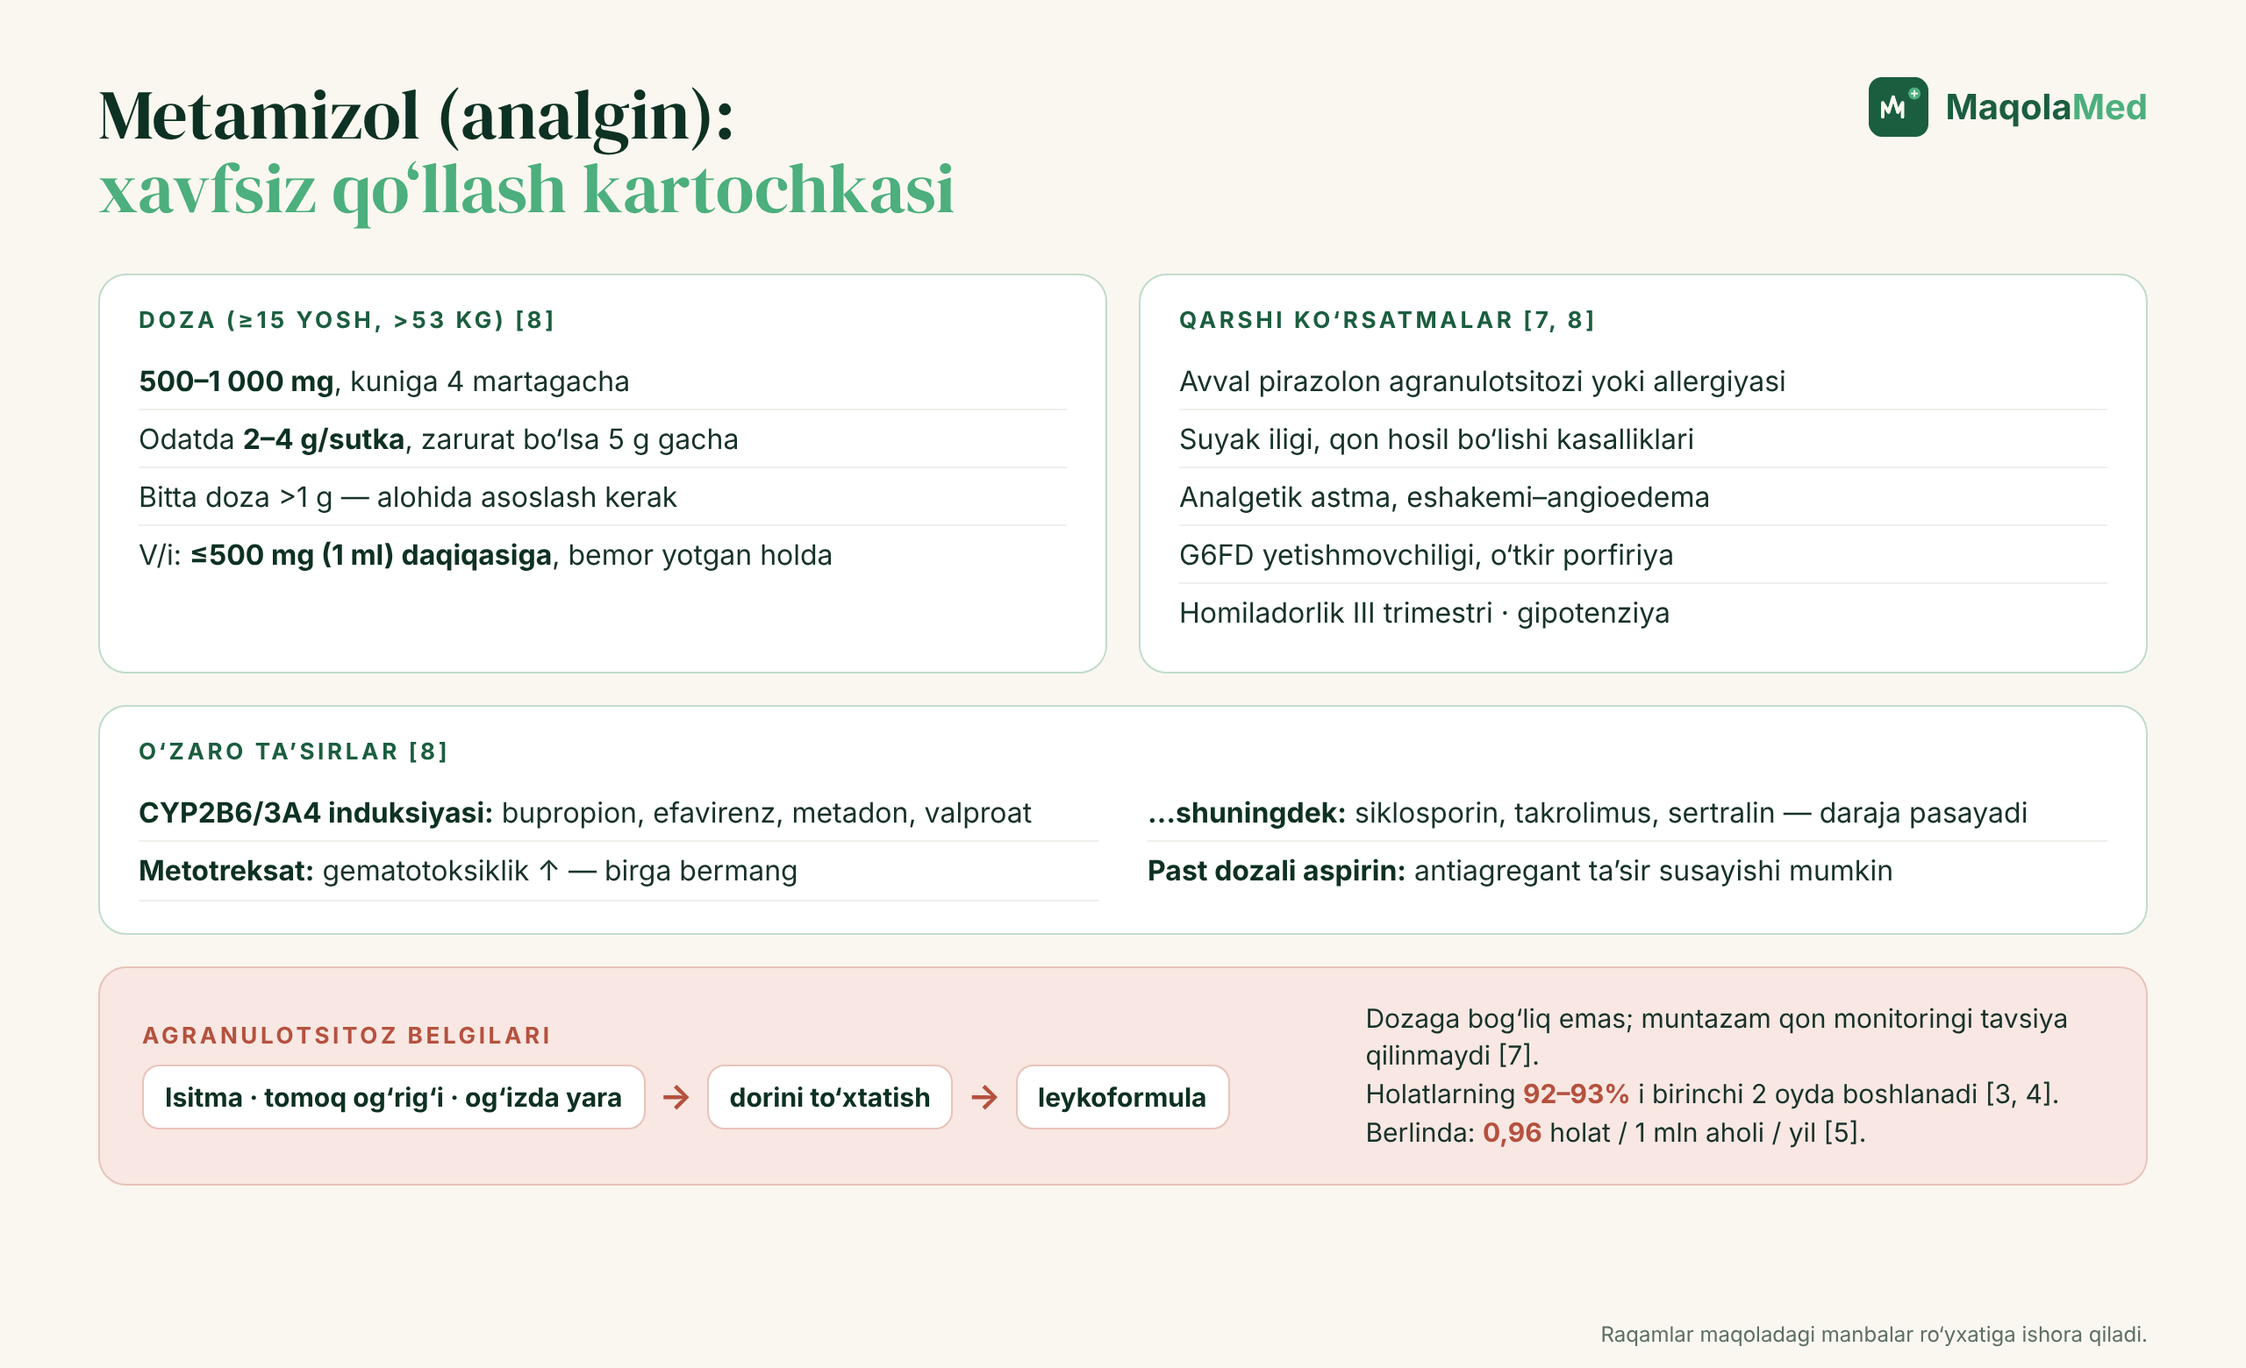
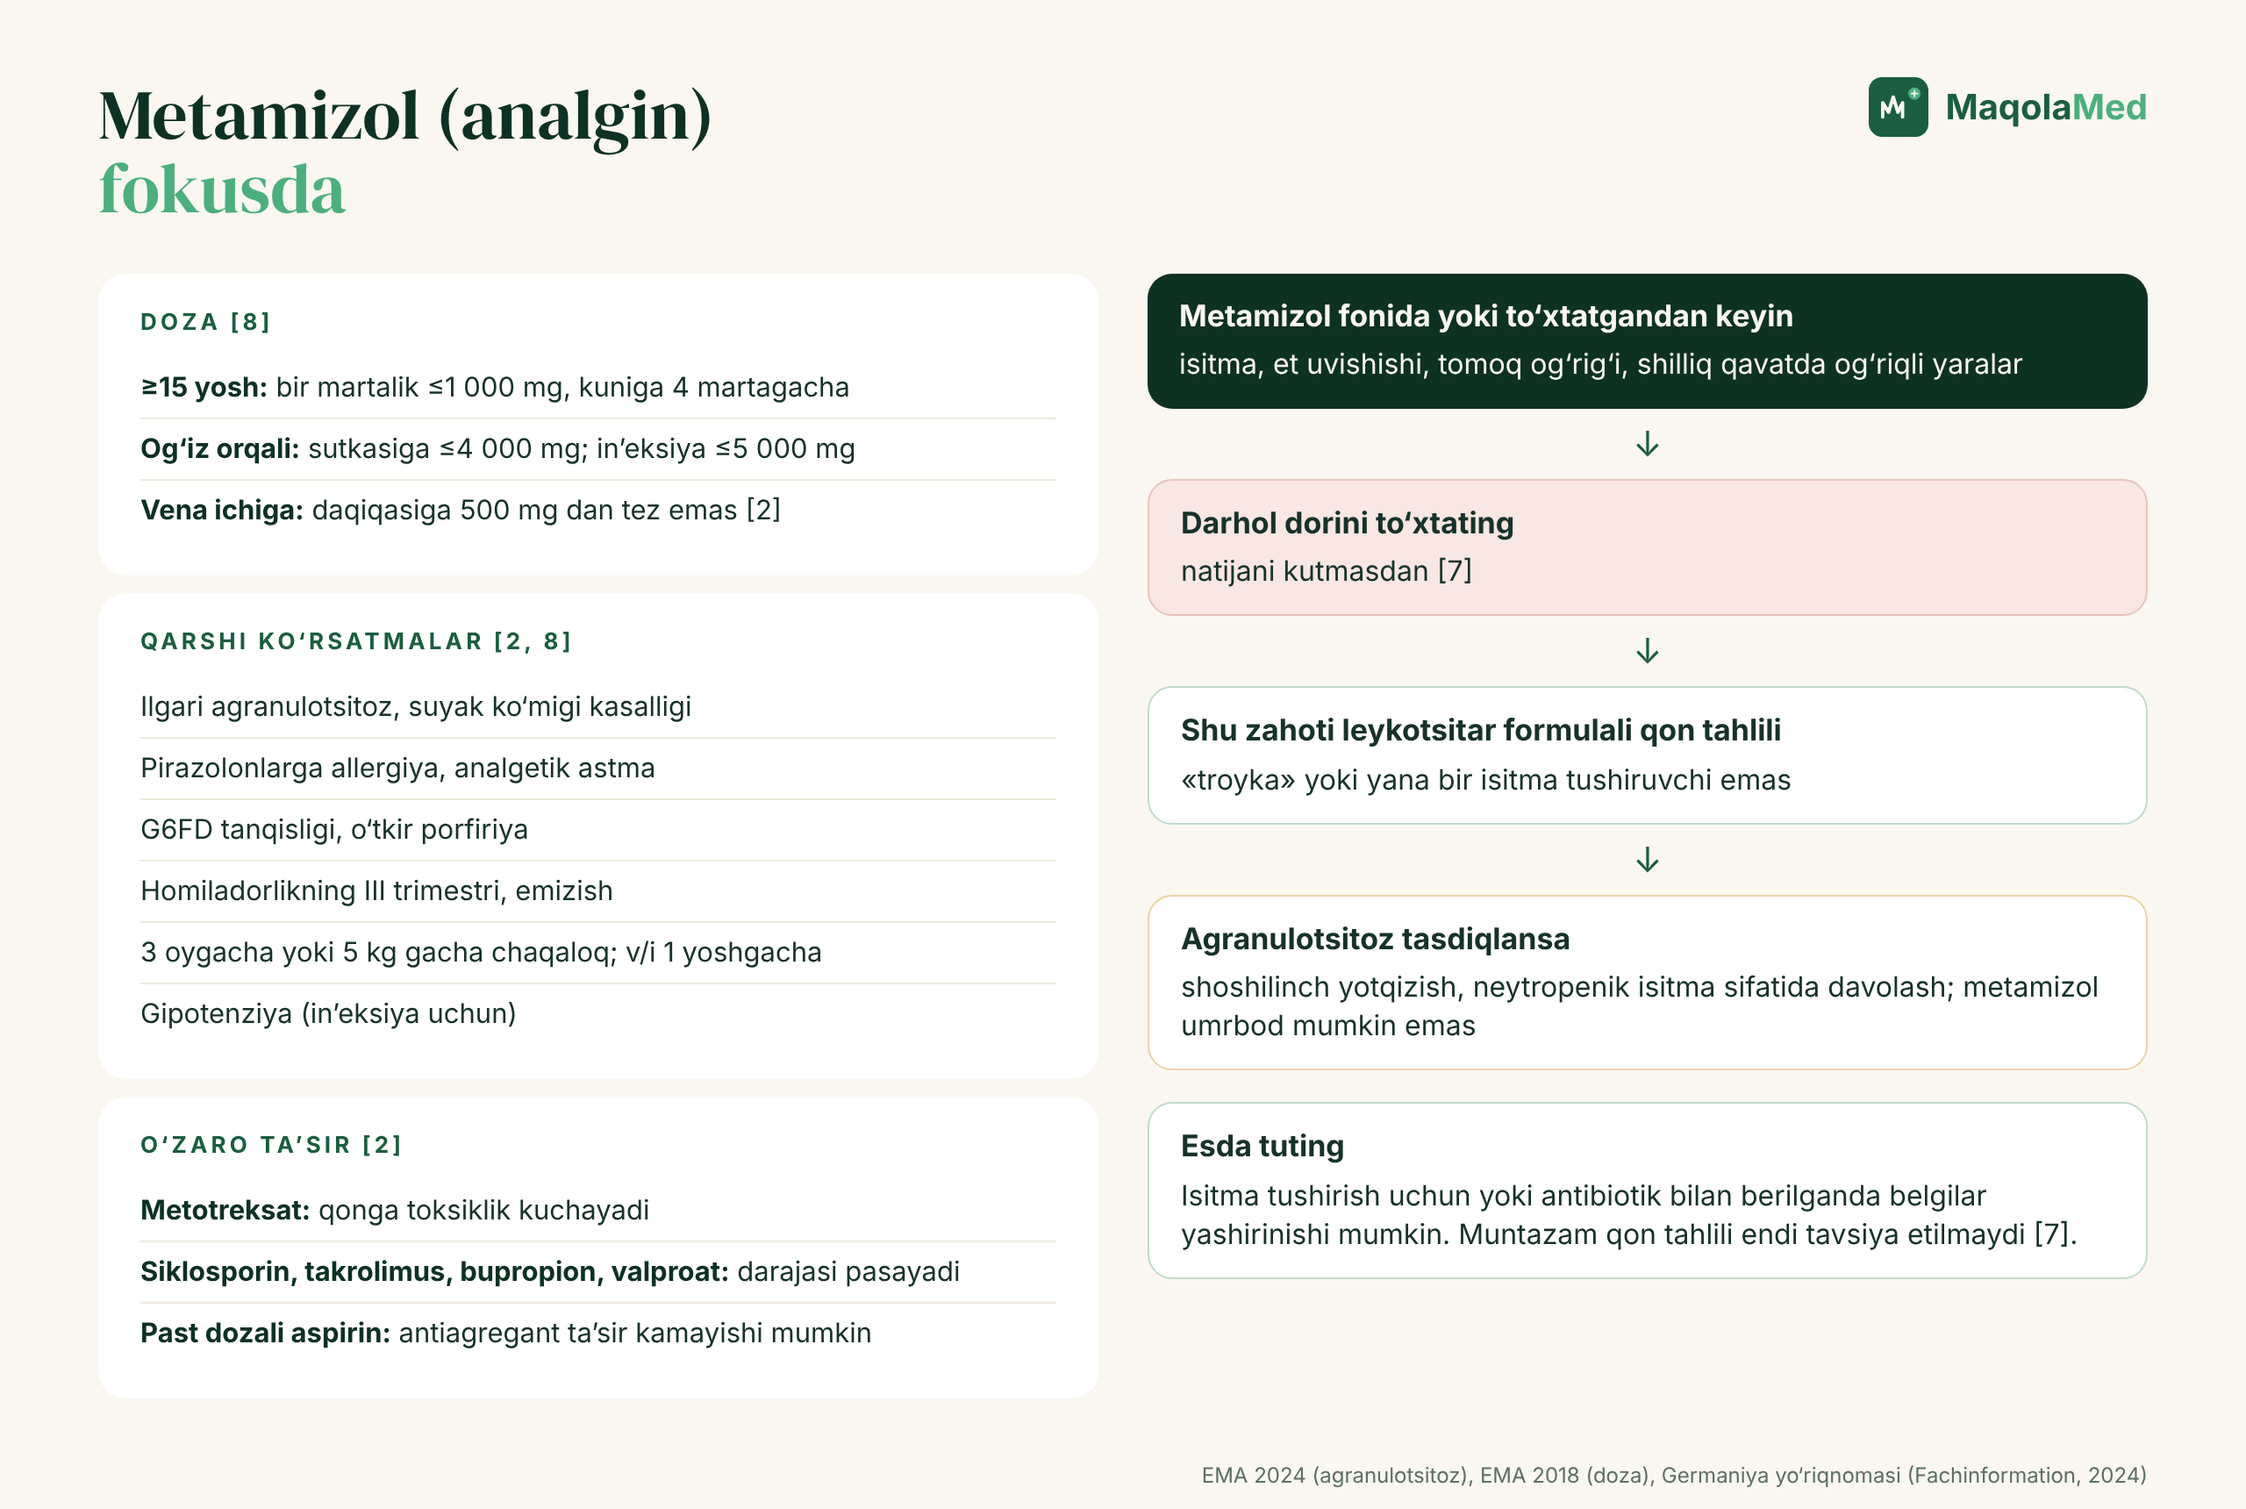
31-dekabr maqolasi qayta yozildi (v2, humanizer): metamizol (analgin) — muqovalar, 1 rasm

diff --git a/_manba/2026-12-31/1-rasm.html b/_manba/2026-12-31/1-rasm.html
@@ -31,38 +31,42 @@ td.warn{background:var(--redbg)}
 .note b{color:var(--deep)}
 .src{position:absolute;right:56px;bottom:12px;font-size:12px;color:var(--muted)}
 .arrow{stroke:var(--emerald);stroke-width:2.2;fill:none}
-</style></head><body><style>:root{--H:780px}
-.grid4{display:grid;grid-template-columns:1fr 1fr;gap:18px}
-.box{background:#fff;border-radius:16px;padding:18px 22px;border:1.5px solid #BFDCCB}
-.box h2{font-size:13px;letter-spacing:.14em;text-transform:uppercase;color:var(--emerald);margin-bottom:10px}
-.box ul{list-style:none}.box li{font-size:16px;line-height:1.38;padding:5px 0;border-bottom:1px solid #EEF0EC}
-.box li:last-child{border-bottom:0}.box li b{color:var(--deep)}
-.alarm{margin-top:18px;border-radius:16px;padding:18px 24px;background:var(--redbg);border:1.5px solid #E8C3BA;display:grid;grid-template-columns:1.6fr 1fr;gap:24px;align-items:center}
-.alarm h2{font-size:13px;letter-spacing:.14em;text-transform:uppercase;color:var(--red);margin-bottom:8px}
-.flow{display:flex;align-items:center;gap:8px;flex-wrap:nowrap;font-size:15px;font-weight:700;color:var(--deep)}
-.flow span.s{background:#fff;border-radius:10px;padding:8px 12px;border:1.5px solid #E8C3BA}
-.flow i{font-style:normal;color:var(--red);font-size:20px}
-.facts{font-size:15px;line-height:1.45}.facts b{color:var(--red)}
+</style></head><body><style>:root{--H:860px}
+.cols{display:grid;grid-template-columns:1fr 1fr;gap:28px}
+.box{background:#fff;border-radius:16px;padding:20px 24px}
+.box h2{font-size:13px;letter-spacing:.16em;text-transform:uppercase;color:var(--emerald);margin-bottom:12px}
+.box ul{list-style:none;font-size:15.5px;line-height:1.42}
+.box li{padding:6px 0;border-bottom:1px solid #EEE9DD}.box li:last-child{border:0}
+.box li b{color:var(--deep)}
+.flow{display:flex;flex-direction:column;gap:10px}
+.down{text-align:center;color:var(--emerald);font-size:20px;line-height:1}
 </style>
-<div class="fig"><div class="top"><h1>Metamizol (analgin):<br><em>xavfsiz qo‘llash kartochkasi</em></h1><div class="brand"><img src="icon.png" alt=""><span>Maqola<b>Med</b></span></div></div>
-<div class="grid4">
-<div class="box"><h2>Doza (≥15 yosh, &gt;53 kg) [8]</h2><ul>
-<li><b>500–1 000 mg</b>, kuniga 4 martagacha</li>
-<li>Odatda <b>2–4 g/sutka</b>, zarurat bo‘lsa 5 g gacha</li>
-<li>Bitta doza &gt;1 g — alohida asoslash kerak</li>
-<li>V/i: <b>≤500 mg (1 ml) daqiqasiga</b>, bemor yotgan holda</li></ul></div>
-<div class="box"><h2>Qarshi ko‘rsatmalar [7, 8]</h2><ul>
-<li>Avval pirazolon agranulotsitozi yoki allergiyasi</li>
-<li>Suyak iligi, qon hosil bo‘lishi kasalliklari</li>
-<li>Analgetik astma, eshakemi–angioedema</li>
-<li>G6FD yetishmovchiligi, o‘tkir porfiriya</li>
-<li>Homiladorlik III trimestri · gipotenziya</li></ul></div>
-<div class="box" style="grid-column:1 / span 2"><h2>O‘zaro ta’sirlar [8]</h2><ul style="display:grid;grid-template-columns:1fr 1fr;column-gap:28px">
-<li><b>CYP2B6/3A4 induksiyasi:</b> bupropion, efavirenz, metadon, valproat</li>
-<li><b>…shuningdek:</b> siklosporin, takrolimus, sertralin — daraja pasayadi</li>
-<li><b>Metotreksat:</b> gematotoksiklik ↑ — birga bermang</li>
-<li><b>Past dozali aspirin:</b> antiagregant ta’sir susayishi mumkin</li></ul></div>
+<div class="fig"><div class="top"><h1>Metamizol (analgin)<br><em>fokusda</em></h1><div class="brand"><img src="icon.png" alt=""><span>Maqola<b>Med</b></span></div></div>
+<div class="cols"><div class="flow">
+<div class="box"><h2>Doza [8]</h2><ul>
+<li><b>≥15 yosh:</b> bir martalik ≤1 000 mg, kuniga 4 martagacha</li>
+<li><b>Og‘iz orqali:</b> sutkasiga ≤4 000 mg; in’eksiya ≤5 000 mg</li>
+<li><b>Vena ichiga:</b> daqiqasiga 500 mg dan tez emas [2]</li></ul></div>
+<div class="box"><h2>Qarshi ko‘rsatmalar [2, 8]</h2><ul>
+<li>Ilgari agranulotsitoz, suyak ko‘migi kasalligi</li>
+<li>Pirazolonlarga allergiya, analgetik astma</li>
+<li>G6FD tanqisligi, o‘tkir porfiriya</li>
+<li>Homiladorlikning III trimestri, emizish</li>
+<li>3 oygacha yoki 5 kg gacha chaqaloq; v/i 1 yoshgacha</li>
+<li>Gipotenziya (in’eksiya uchun)</li></ul></div>
+<div class="box"><h2>O‘zaro ta’sir [2]</h2><ul>
+<li><b>Metotreksat:</b> qonga toksiklik kuchayadi</li>
+<li><b>Siklosporin, takrolimus, bupropion, valproat:</b> darajasi pasayadi</li>
+<li><b>Past dozali aspirin:</b> antiagregant ta’sir kamayishi mumkin</li></ul></div>
 </div>
-<div class="alarm"><div><h2>Agranulotsitoz belgilari</h2><div class="flow"><span class="s">Isitma · tomoq og‘rig‘i · og‘izda yara</span><i>→</i><span class="s">dorini to‘xtatish</span><i>→</i><span class="s">leykoformula</span></div></div>
-<div class="facts">Dozaga bog‘liq emas; muntazam qon monitoringi tavsiya qilinmaydi [7].<br>Holatlarning <b>92–93%</b> i birinchi 2 oyda boshlanadi [3, 4].<br>Berlinda: <b>0,96</b> holat / 1 mln aholi / yil [5].</div></div>
-<div class="src">Raqamlar maqoladagi manbalar ro‘yxatiga ishora qiladi.</div></div></body></html>
+<div class="flow">
+<div class="node n-deep"><b>Metamizol fonida yoki to‘xtatgandan keyin</b>isitma, et uvishishi, tomoq og‘rig‘i, shilliq qavatda og‘riqli yaralar</div>
+<div class="down">↓</div>
+<div class="node n-red"><b>Darhol dorini to‘xtating</b>natijani kutmasdan [7]</div>
+<div class="down">↓</div>
+<div class="node n-white"><b>Shu zahoti leykotsitar formulali qon tahlili</b>«troyka» yoki yana bir isitma tushiruvchi emas</div>
+<div class="down">↓</div>
+<div class="node n-amb"><b>Agranulotsitoz tasdiqlansa</b>shoshilinch yotqizish, neytropenik isitma sifatida davolash; metamizol umrbod mumkin emas</div>
+<div class="node n-white" style="margin-top:8px"><b>Esda tuting</b>Isitma tushirish uchun yoki antibiotik bilan berilganda belgilar yashirinishi mumkin. Muntazam qon tahlili endi tavsiya etilmaydi [7].</div>
+</div></div>
+<div class="src">EMA 2024 (agranulotsitoz), EMA 2018 (doza), Germaniya yo‘riqnomasi (Fachinformation, 2024)</div></div></body></html>

diff --git a/_manba/2026-12-31/muqova-16x9.html b/_manba/2026-12-31/muqova-16x9.html
@@ -53,6 +53,8 @@ h1 em{font-style:normal;color:var(--mint)}
 .quote{margin-top:18px;font-family:"DM Serif Display",serif;font-size:21px;line-height:1.25;color:var(--cream)}
 .ask{margin-top:16px;display:flex;align-items:center;justify-content:space-between;padding:13px 16px;border-radius:12px;background:var(--green);color:#0D3122;font-weight:700;font-size:17px}
 .ask svg{width:22px;height:22px;stroke:#0D3122;fill:none;stroke-width:2.2;stroke-linecap:round;stroke-linejoin:round}
+
+
 h1{font-size:66px}
 </style>
 </head>
@@ -61,9 +63,9 @@ h1{font-size:66px}
 <div class="left"><div class="brand"><img src="logo_dark_bg.png" alt="MaqolaMed"></div>
 <div class="tag" style="margin-top:22px"><span>ILM</span><i></i><span>AMALIYOT</span><i></i><span>ODAM UCHUN</span><span class="line"></span></div>
 <div class="kicker"><span></span>Dori fokusda · Farmakologiya</div>
-<h1>Analgin:<br>nega ko‘p mamlakatda<br><em>cheklangan?</em></h1>
-<div class="sub">Kuchli og‘riq qoldiruvchi va kam uchraydigan, ammo og‘ir xavf.</div></div>
-<div class="points"><div class="pt"><div class="ic"><svg viewBox="0 0 24 24"><circle cx="12" cy="12" r="9"/><path d="M9.5 9.5a2.5 2.5 0 1 1 3.5 2.3c-.7.3-1 .8-1 1.5v.7"/><path d="M12 17v.5"/></svg></div><p>Nega AQShda bozordan olingan?</p></div><div class="pt"><div class="ic"><svg viewBox="0 0 24 24"><path d="M12 3l9.5 17h-19z"/><path d="M12 10v4.5"/><path d="M12 17.5v.5"/></svg></div><p>Agranulotsitozni qanday tanish?</p></div><div class="pt"><div class="ic"><svg viewBox="0 0 24 24"><rect x="3" y="8.5" width="18" height="7" rx="3.5" transform="rotate(-40 12 12)"/><path d="M9.3 9.3l5.4 5.4"/></svg></div><p>Qaysi dorilar bilan xavfli?</p></div><div class="pt"><div class="ic"><svg viewBox="0 0 24 24"><path d="M12 3c3 4 6 7.5 6 11a6 6 0 0 1-12 0c0-3.5 3-7 6-11z"/></svg></div><p>V/i qanchalik tez yuboriladi?</p></div></div>
+<h1>Analgin:<br>nega ko‘p davlatlarda<br><em>cheklangan?</em></h1>
+<div class="sub">Og‘riqqa yaxshi, ammo bitta asorati halokatli.</div></div>
+<div class="points"><div class="pt"><div class="ic"><svg viewBox="0 0 24 24"><rect x="3" y="8.5" width="18" height="7" rx="3.5" transform="rotate(-40 12 12)"/><path d="M9.3 9.3l5.4 5.4"/></svg></div><p>Og‘riqqa yordam beradimi?</p></div><div class="pt"><div class="ic"><svg viewBox="0 0 24 24"><path d="M12 3l9.5 17h-19z"/><path d="M12 10v4"/><path d="M12 17v.5"/></svg></div><p>Agranulotsitoz qanchalik xavfli?</p></div><div class="pt"><div class="ic"><svg viewBox="0 0 24 24"><path d="M14 14.8V5a2 2 0 0 0-4 0v9.8a4 4 0 1 0 4 0z"/><path d="M12 9v7"/></svg></div><p>Isitmada nega xavfli?</p></div><div class="pt"><div class="ic"><svg viewBox="0 0 24 24"><path d="M9 3h6"/><path d="M10 3v12.5a2 2 0 0 0 4 0V3"/><path d="M10 10h4"/><path d="M5 21h14"/></svg></div><p>Qon tahlili qachon kerak?</p></div></div>
 <div class="card"><div class="ch"><span class="lbl">DORI KARTOCHKASI</span><span class="pill">Metamizol</span></div>
-<h3>Analgin (metamizol)<small>Pirazolon guruhi · EMA 2024</small></h3><div class="rows"><div class="row"><span>Og‘riq, 500 mg</span><span class="ok">NNT 2,4</span></div><div class="row"><span>Asosiy xavf</span><span class="">agranulotsitoz</span></div><div class="row"><span>Boshlanishi</span><span class="">92% — 2 oy ichida</span></div><div class="row"><span>Isitma chiqsa</span><span class="ok">to‘xtatish + qon tahlili</span></div></div><div class="quote">«Ukollarni davom ettiraveraylikmi?»</div><div class="ask">Siz nima qilardingiz?<svg viewBox="0 0 24 24"><path d="M5 12h14"/><path d="M13 6l6 6-6 6"/></svg></div></div>
+<h3>Metamizol (analgin)<small>Cochrane 2016 · EMA 2018 va 2024</small></h3><div class="rows"><div class="row"><span>Doza (≥15 yosh)</span><span class="ok">≤1 g, ≤4 g/sut</span></div><div class="row"><span>Og‘riqda NNT (500 mg)</span><span class="ok">2,4</span></div><div class="row"><span>Agranulotsitoz (Shvetsiya)</span><span class="">1:1 439 retsept</span></div><div class="row"><span>Xabarlarda o‘lim (Germaniya)</span><span class="">23,6%</span></div><div class="row"><span>III trimestr</span><span class="">mumkin emas</span></div><div class="row"><span>Muntazam qon tahlili</span><span class="ok">endi kerak emas</span></div></div><div class="quote">«Yana bitta troyka qilib qo‘ying»</div><div class="ask">Siz nima qilardingiz?<svg viewBox="0 0 24 24"><path d="M5 12h14"/><path d="M13 6l6 6-6 6"/></svg></div></div>
 </div></body></html>

diff --git a/_manba/2026-12-31/muqova-instagram-4x5.html b/_manba/2026-12-31/muqova-instagram-4x5.html
@@ -70,6 +70,9 @@ h1{font-size:96px;margin-top:18px}
 .pt p{font-size:17px}
 
 
+
+
+h1{font-size:90px}
 </style>
 </head>
 <body><div class="cover"><div class="grid"></div>
@@ -77,9 +80,9 @@ h1{font-size:96px;margin-top:18px}
 <div class="left"><div class="brand"><img src="logo_dark_bg.png" alt="MaqolaMed"></div>
 <div class="tag" style="margin-top:22px"><span>ILM</span><i></i><span>AMALIYOT</span><i></i><span>ODAM UCHUN</span><span class="line"></span></div>
 <div class="kicker"><span></span>Dori fokusda · Farmakologiya</div>
-<h1>Analgin:<br>nega ko‘p mamlakatda<br><em>cheklangan?</em></h1>
-<div class="sub">Kuchli og‘riq qoldiruvchi va kam uchraydigan, ammo og‘ir xavf.</div></div>
-<div class="points"><div class="pt"><div class="ic"><svg viewBox="0 0 24 24"><circle cx="12" cy="12" r="9"/><path d="M9.5 9.5a2.5 2.5 0 1 1 3.5 2.3c-.7.3-1 .8-1 1.5v.7"/><path d="M12 17v.5"/></svg></div><p>Nega AQShda bozordan olingan?</p></div><div class="pt"><div class="ic"><svg viewBox="0 0 24 24"><path d="M12 3l9.5 17h-19z"/><path d="M12 10v4.5"/><path d="M12 17.5v.5"/></svg></div><p>Agranulotsitozni qanday tanish?</p></div><div class="pt"><div class="ic"><svg viewBox="0 0 24 24"><rect x="3" y="8.5" width="18" height="7" rx="3.5" transform="rotate(-40 12 12)"/><path d="M9.3 9.3l5.4 5.4"/></svg></div><p>Qaysi dorilar bilan xavfli?</p></div><div class="pt"><div class="ic"><svg viewBox="0 0 24 24"><path d="M12 3c3 4 6 7.5 6 11a6 6 0 0 1-12 0c0-3.5 3-7 6-11z"/></svg></div><p>V/i qanchalik tez yuboriladi?</p></div></div>
+<h1>Analgin:<br>nega ko‘p davlatlarda<br><em>cheklangan?</em></h1>
+<div class="sub">Og‘riqqa yaxshi, ammo bitta asorati halokatli.</div></div>
+<div class="points"><div class="pt"><div class="ic"><svg viewBox="0 0 24 24"><rect x="3" y="8.5" width="18" height="7" rx="3.5" transform="rotate(-40 12 12)"/><path d="M9.3 9.3l5.4 5.4"/></svg></div><p>Og‘riqqa yordam beradimi?</p></div><div class="pt"><div class="ic"><svg viewBox="0 0 24 24"><path d="M12 3l9.5 17h-19z"/><path d="M12 10v4"/><path d="M12 17v.5"/></svg></div><p>Agranulotsitoz qanchalik xavfli?</p></div><div class="pt"><div class="ic"><svg viewBox="0 0 24 24"><path d="M14 14.8V5a2 2 0 0 0-4 0v9.8a4 4 0 1 0 4 0z"/><path d="M12 9v7"/></svg></div><p>Isitmada nega xavfli?</p></div><div class="pt"><div class="ic"><svg viewBox="0 0 24 24"><path d="M9 3h6"/><path d="M10 3v12.5a2 2 0 0 0 4 0V3"/><path d="M10 10h4"/><path d="M5 21h14"/></svg></div><p>Qon tahlili qachon kerak?</p></div></div>
 <div class="card"><div class="ch"><span class="lbl">DORI KARTOCHKASI</span><span class="pill">Metamizol</span></div>
-<h3>Analgin (metamizol)<small>Pirazolon guruhi · EMA 2024</small></h3><div class="rows"><div class="row"><span>Og‘riq, 500 mg</span><span class="ok">NNT 2,4</span></div><div class="row"><span>Asosiy xavf</span><span class="">agranulotsitoz</span></div><div class="row"><span>Boshlanishi</span><span class="">92% — 2 oy ichida</span></div><div class="row"><span>Isitma chiqsa</span><span class="ok">to‘xtatish + qon tahlili</span></div></div><div class="quote">«Ukollarni davom ettiraveraylikmi?»</div><div class="ask">Siz nima qilardingiz?<svg viewBox="0 0 24 24"><path d="M5 12h14"/><path d="M13 6l6 6-6 6"/></svg></div></div>
+<h3>Metamizol (analgin)<small>Cochrane 2016 · EMA 2018 va 2024</small></h3><div class="rows"><div class="row"><span>Doza (≥15 yosh)</span><span class="ok">≤1 g, ≤4 g/sut</span></div><div class="row"><span>Og‘riqda NNT (500 mg)</span><span class="ok">2,4</span></div><div class="row"><span>Agranulotsitoz (Shvetsiya)</span><span class="">1:1 439 retsept</span></div><div class="row"><span>Xabarlarda o‘lim (Germaniya)</span><span class="">23,6%</span></div><div class="row"><span>III trimestr</span><span class="">mumkin emas</span></div><div class="row"><span>Muntazam qon tahlili</span><span class="ok">endi kerak emas</span></div></div><div class="quote">«Yana bitta troyka qilib qo‘ying»</div><div class="ask">Siz nima qilardingiz?<svg viewBox="0 0 24 24"><path d="M5 12h14"/><path d="M13 6l6 6-6 6"/></svg></div></div>
 </div></body></html>
